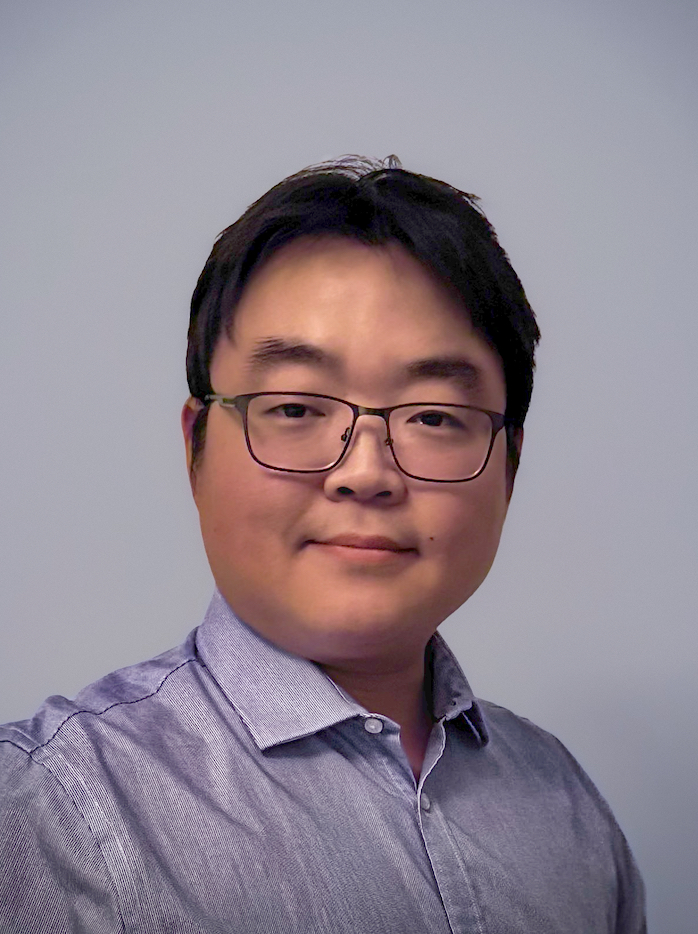
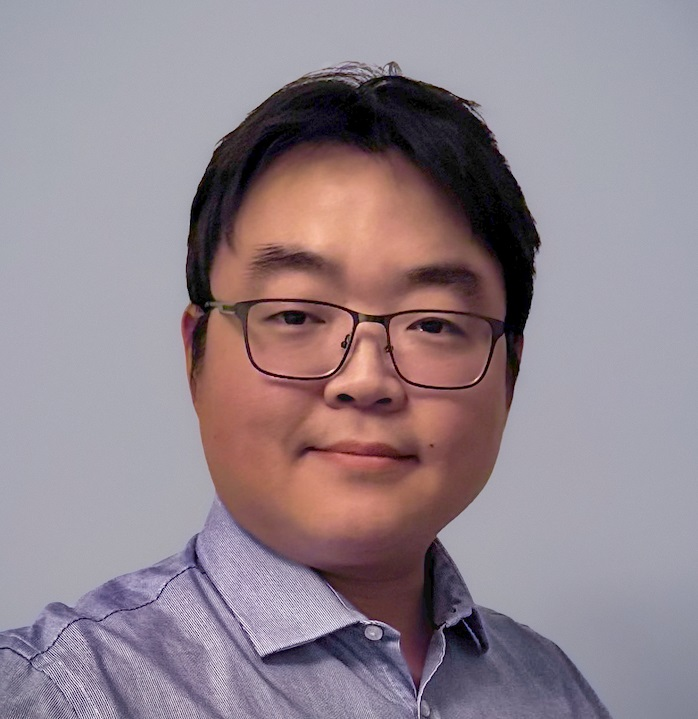
Update photo size

diff --git a/public/index.html b/public/index.html
@@ -711,7 +711,7 @@
             <article class="media icon-box">
 
               <figure class="media-left">
-                  <img src="/images/illustrations/faces/2025/SungHoLee1.jpg" width="175" style="border-radius:50%;">
+                  <img src="/images/illustrations/faces/2025/SungHo_Lee1.jpg" width="175" style="border-radius:50%;">
               </figure>
 
               <div class="media-content">
